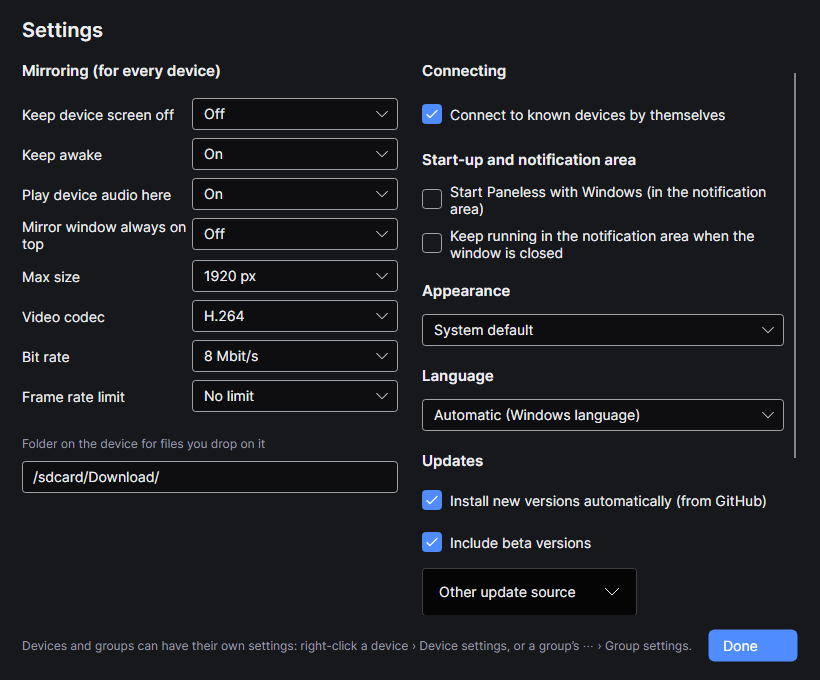
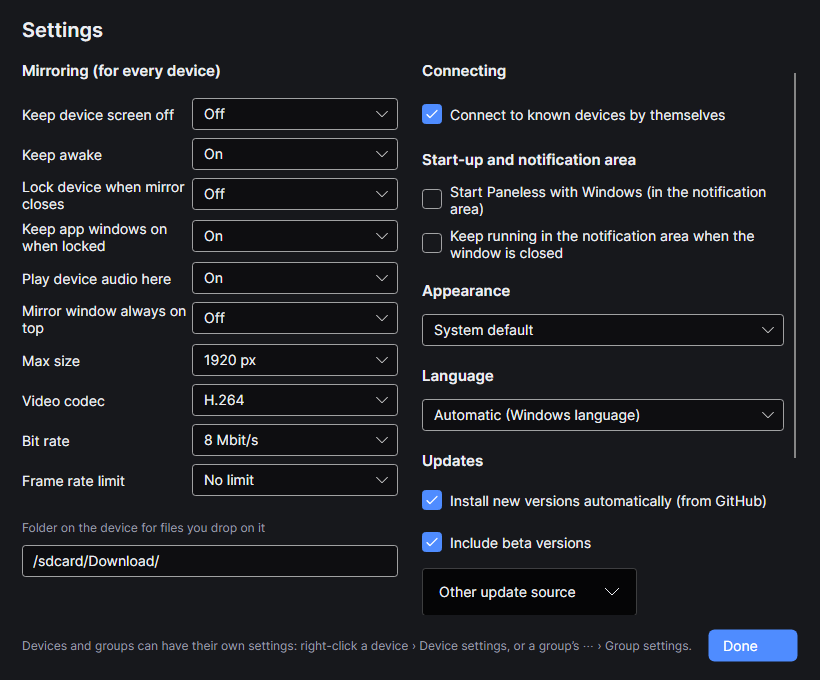
Prepare 1.0.0-beta.4 for release: build attestations, refreshed screenshots, and DE polish
- Add GitHub build provenance attestations (actions/attest-build-provenance@v2) and direct Actions run + SHA-256 + VirusTotal verification links to release.yml
- Update README.md with Build status badge, Lock-on-close note, Wall screenshot, and public GitHub Actions / build provenance verification note
- Refresh main-tall.png, settings.png, device-settings.png and add wall.png (bumping DeviceSettingsWindow default height to 740 px so the Files field isn't clipped)
- Unify remaining German USB strings in de.json to formal 'Sie' phrasing matching the rest of the app

diff --git a/README.md b/README.md
@@ -20,6 +20,7 @@
 
 <p align="center">
   <a href="https://github.com/Stiviemain/paneless/releases"><img alt="Latest release" src="https://img.shields.io/github/v/release/Stiviemain/paneless?include_prereleases&label=release"></a>
+  <a href="https://github.com/Stiviemain/paneless/actions/workflows/build.yml"><img alt="Build" src="https://github.com/Stiviemain/paneless/actions/workflows/build.yml/badge.svg"></a>
   <a href="LICENSE"><img alt="License: MIT" src="https://img.shields.io/badge/license-MIT-blue"></a>
   <img alt="Windows 10/11" src="https://img.shields.io/badge/Windows-10%20%7C%2011-0078d4">
   <img alt="Android USB and Wi-Fi" src="https://img.shields.io/badge/Android-USB%20%7C%20Wi--Fi-3ddc84">
@@ -78,7 +79,7 @@ The interface is built with [Avalonia](https://avaloniaui.net/), a cross-platfor
 
 **Mirroring**
 - One click (or double-click, or Enter) to mirror one or many devices.
-- Keep the device's own screen off while mirroring, keep it awake, play its audio on the PC, keep the window on top.
+- Keep the device's own screen off while mirroring, keep it awake, optionally lock it when the last mirror closes, play its audio on the PC, keep the window on top.
 - **Settings per device or per group:** max size, video codec (H.264, H.265, AV1), bit rate and frame-rate limit.
 - **Auto-unlock:** a saved PIN or password is entered when you mirror a locked device. Swipe patterns aren't supported.
 - **Second screen:** a separate, resizable screen of the device next to its own.
@@ -119,6 +120,7 @@ The interface is built with [Avalonia](https://avaloniaui.net/), a cross-platfor
 - **Logs:** the live log (logcat) of a device, filtered by importance, text or app, with crashes in red. Save it to a file.
 - **Inventory:** model, Android version, security patch, battery, storage, RAM, address and uptime of every device. Export it as CSV for Excel or as an HTML report.
 
+<p align="center"><img src="docs/images/wall.png" width="760" alt="Live Wall overview"></p>
 <p align="center"><img src="docs/images/automation.png" width="760" alt="Automation page with a provisioning recipe"></p>
 <p align="center"><img src="docs/images/inventory.png" width="760" alt="Inventory page"></p>
 
@@ -143,7 +145,7 @@ The interface is built with [Avalonia](https://avaloniaui.net/), a cross-platfor
 
 There's also a portable zip if you don't want to install it.
 
-> **Windows SmartScreen** may warn about an unknown publisher, because the installer isn't code-signed yet. Click *More info › Run anyway*, or check the SHA-256 checksum published with the release first.
+> **Windows SmartScreen** may warn about an unknown publisher, because the installer isn't code-signed yet. Click *More info › Run anyway*. All release binaries are built publicly by [GitHub Actions](https://github.com/Stiviemain/paneless/actions/workflows/release.yml) with SHA-256 checksums and [build provenance attestations](https://github.com/Stiviemain/paneless/attestations) attached—or you can [build from source](#building-from-source) in two commands.
 
 macOS and Linux builds are planned: the code is already cross-platform thanks to Avalonia, but those builds aren't packaged or tested yet.
 
